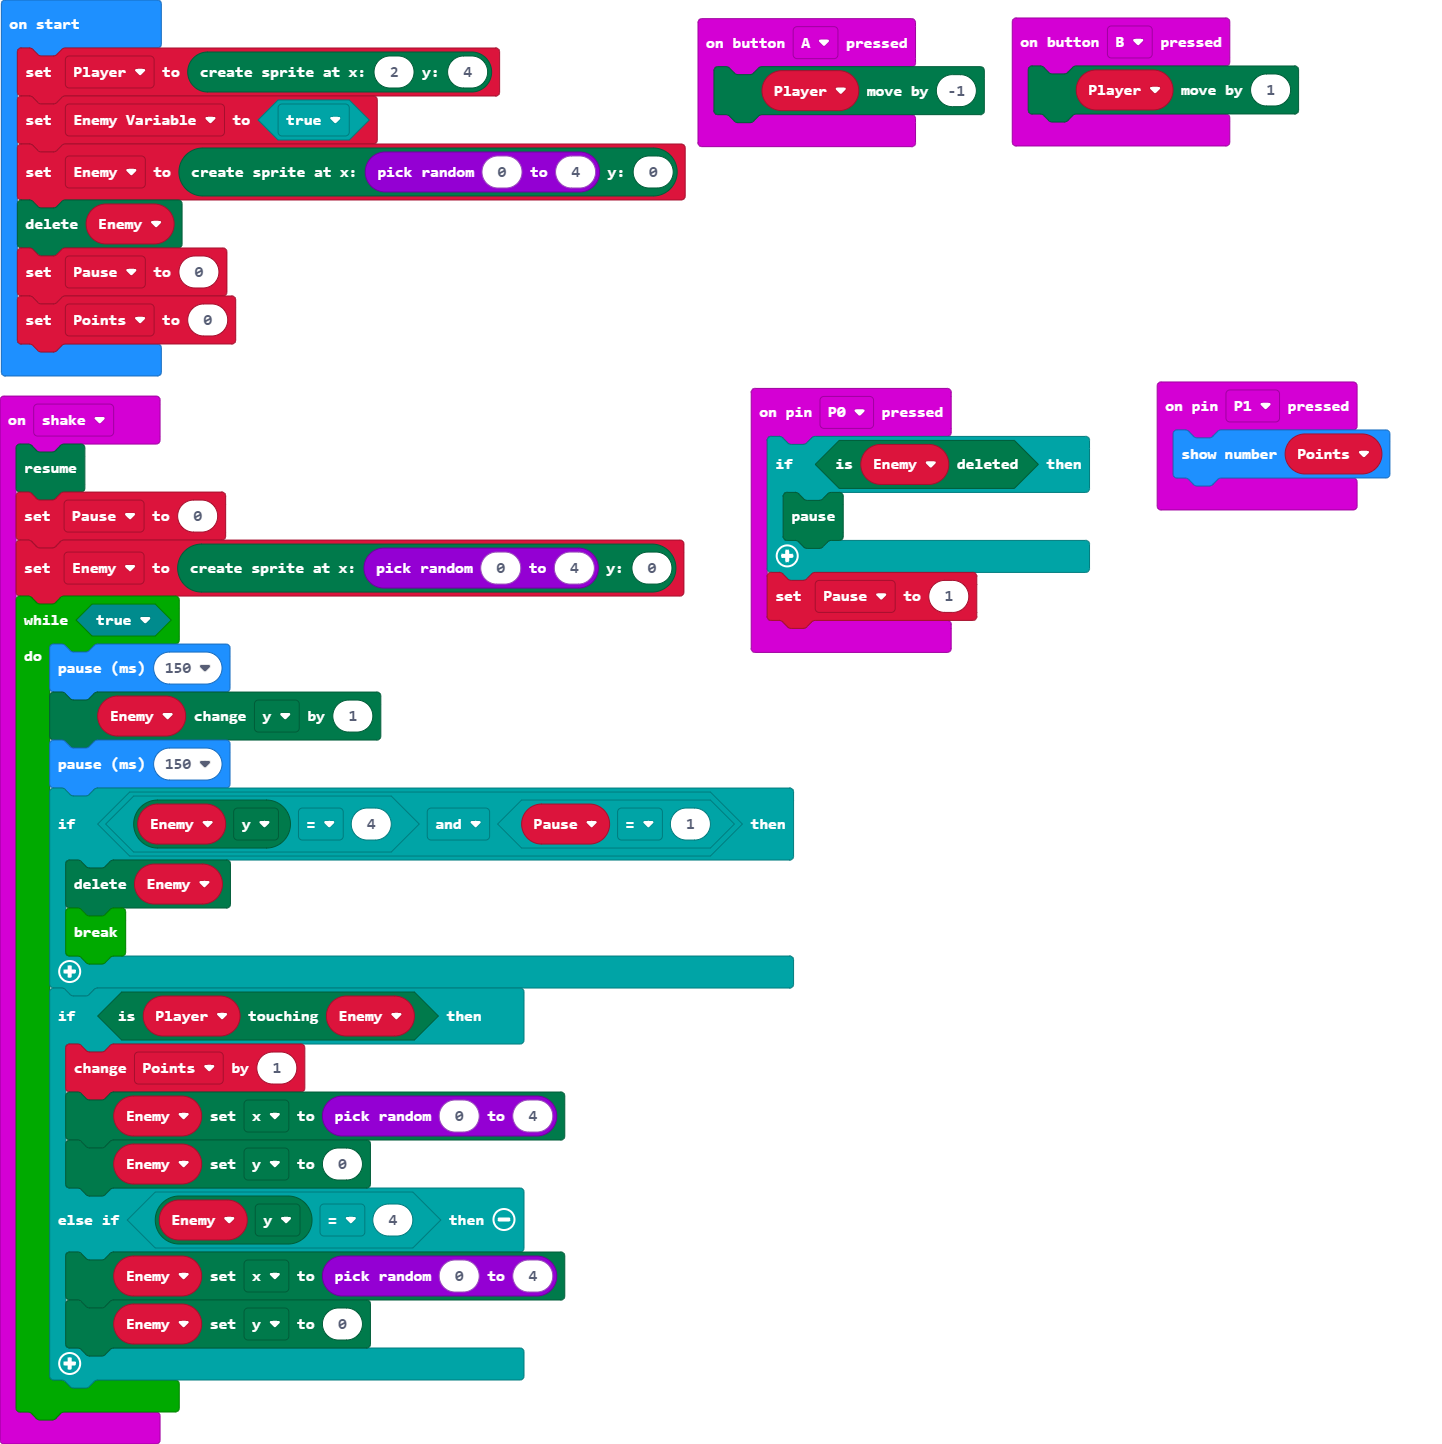
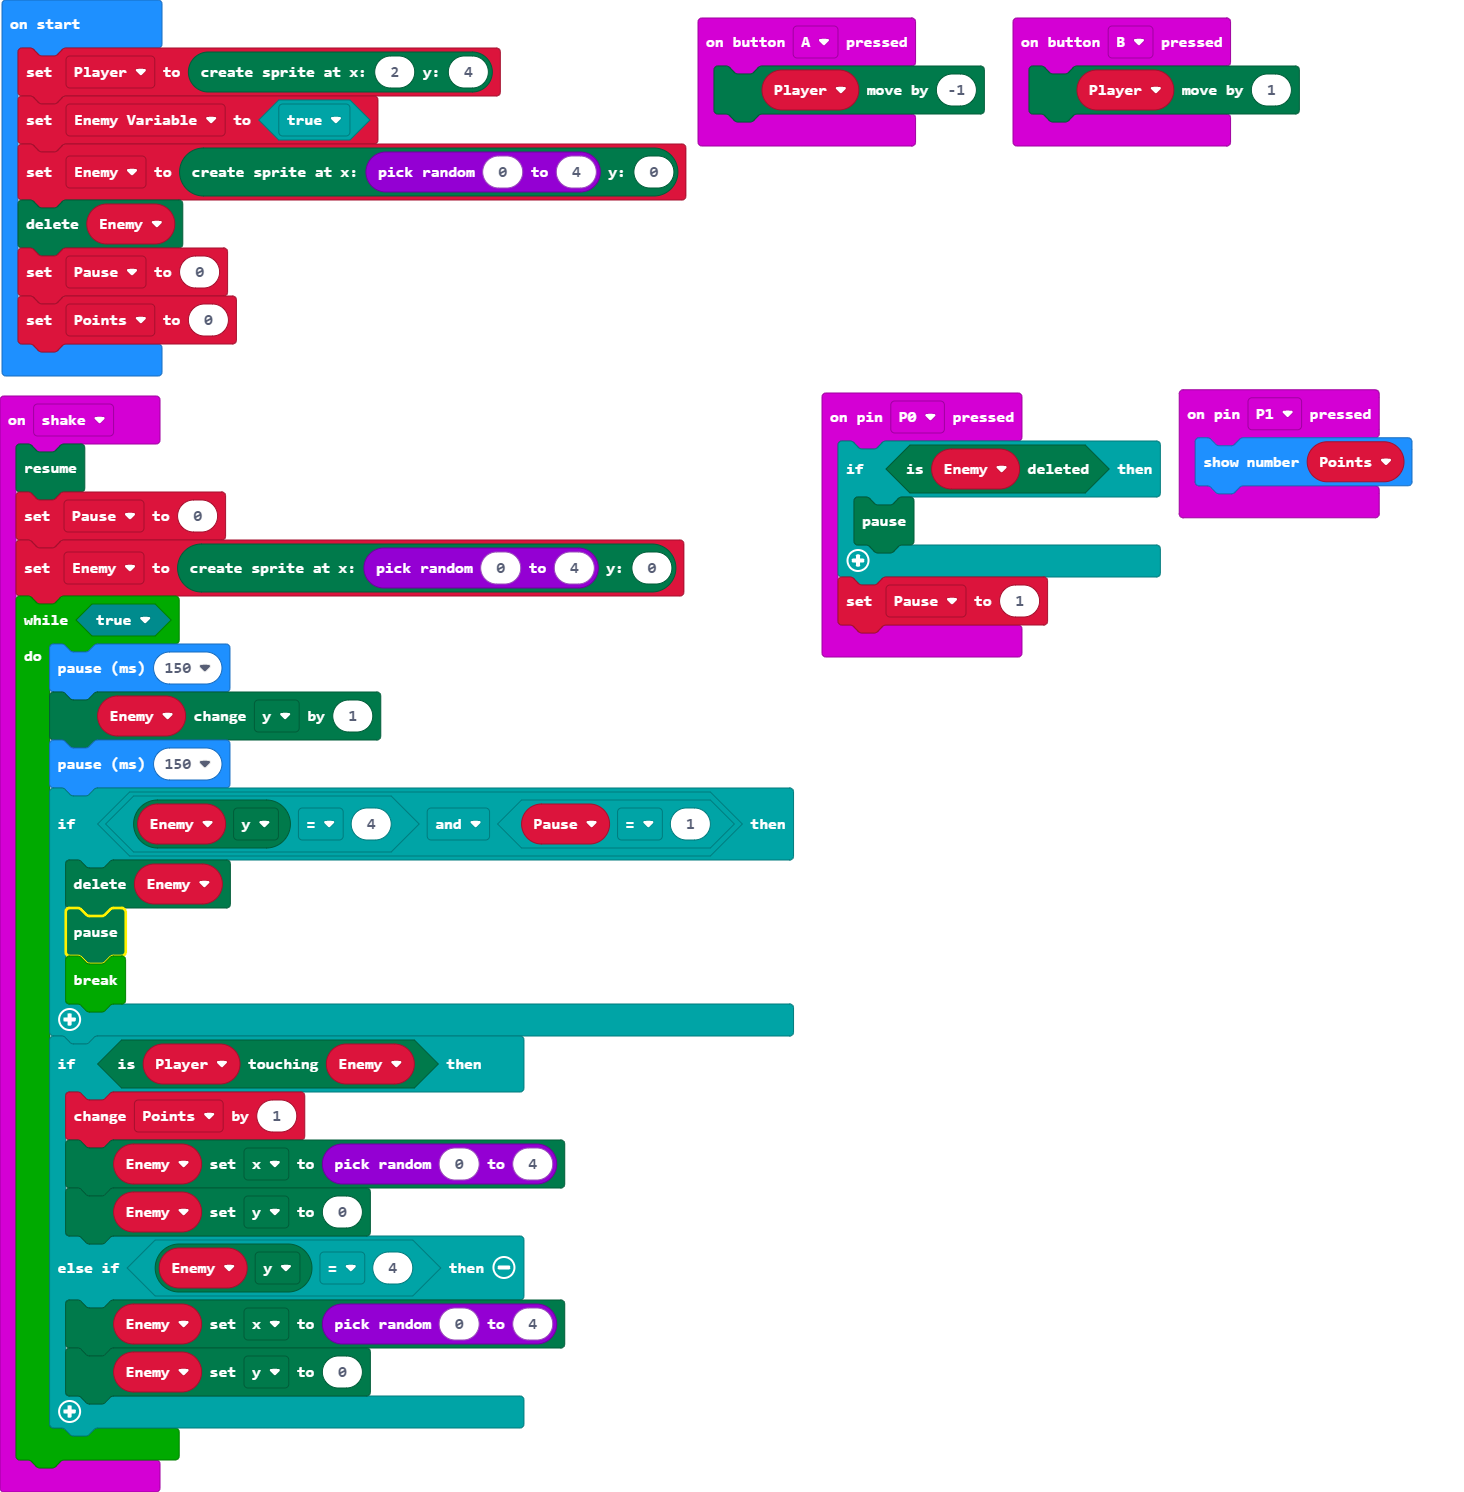
Update main.blocks, main.ts

Changed region(s): [[0.0, 0.0, 0.9674, 0.9972], [0.3433, 0.9349, 0.3745, 0.9661]]

diff --git a/main.ts b/main.ts
@@ -23,6 +23,7 @@ input.onGesture(Gesture.Shake, function () {
         basic.pause(150)
         if (Enemy.get(LedSpriteProperty.Y) == 4 && Pause == 1) {
             Enemy.delete()
+            game.pause()
             break;
         }
         if (Player.isTouching(Enemy)) {
